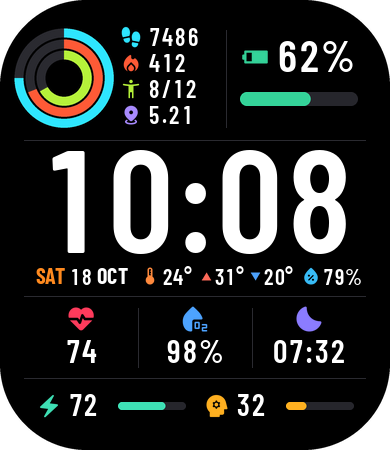
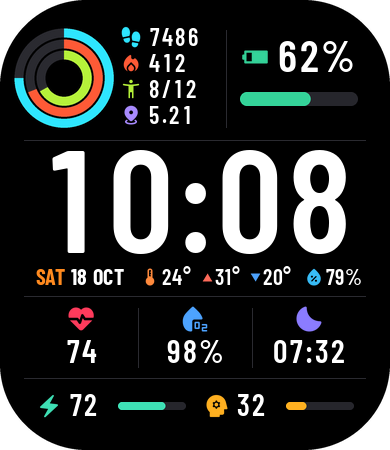
Even out the date/weather row
Proportional digits (no gap around 1), bold pre-spaced day numbers,
one shared baseline for words and digits, icons centred on the digits.

diff --git a/watchface/metrics.js b/watchface/metrics.js
@@ -3,30 +3,30 @@ export const M = {
   "time": {
     "h": 104,
     "digit_w": 70,
+    "cap": 103,
+    "avg_w": 70.0,
     "colon": 39
   },
   "stat": {
     "h": 19,
     "digit_w": 13,
+    "cap": 18,
+    "avg_w": 13.0,
     "dot": 7,
     "slash": 11
   },
   "batt": {
     "h": 32,
     "digit_w": 22,
+    "cap": 31,
+    "avg_w": 22.0,
     "pct": 35
-  },
-  "row": {
-    "h": 20,
-    "digit_w": 11,
-    "deg": 8,
-    "pct": 17,
-    "minus": 8,
-    "invalid": 14
   },
   "tile": {
     "h": 24,
     "digit_w": 16,
+    "cap": 23,
+    "avg_w": 16.0,
     "pct": 26,
     "colon": 10,
     "invalid": 20
@@ -34,28 +34,50 @@ export const M = {
   "bot": {
     "h": 23,
     "digit_w": 15,
+    "cap": 22,
+    "avg_w": 15.0,
     "invalid": 19
   },
+  "row": {
+    "h": 20,
+    "digit_w": 11,
+    "cap": 16,
+    "avg_w": 9.7,
+    "deg": 8,
+    "pct": 17,
+    "minus": 8,
+    "invalid": 14
+  },
   "week": {
-    "h": 17,
+    "h": 20,
     "w": 37
   },
   "month": {
-    "h": 17,
+    "h": 20,
     "w": 35
+  },
+  "day": {
+    "h": 20,
+    "w": 22
   },
   "aod": {
     "h": 104,
     "digit_w": 70,
+    "cap": 103,
+    "avg_w": 70.0,
     "colon": 39
   },
   "aod_date": {
     "h": 22,
-    "digit_w": 16
+    "digit_w": 16,
+    "cap": 21,
+    "avg_w": 16.0
   },
   "aod_batt": {
     "h": 19,
     "digit_w": 13,
+    "cap": 18,
+    "avg_w": 13.0,
     "pct": 20
   },
   "aod_week": {
@@ -69,19 +91,19 @@ export const M = {
   "dateRow": {
     "week": {
       "x": 28,
-      "y": 268
+      "y": 266
     },
     "day": {
-      "x": 70,
+      "x": 68,
       "y": 266
     },
     "month": {
-      "x": 97,
-      "y": 268
+      "x": 93,
+      "y": 266
     },
     "tempIcon": {
       "x": 140,
-      "y": 266
+      "y": 267
     },
     "temp": {
       "x": 162,
@@ -89,17 +111,17 @@ export const M = {
       "w": 38
     },
     "highIcon": {
-      "x": 201,
-      "y": 271
+      "x": 202,
+      "y": 272
     },
     "high": {
-      "x": 214,
+      "x": 215,
       "y": 266,
       "w": 30
     },
     "lowIcon": {
       "x": 250,
-      "y": 271
+      "y": 272
     },
     "low": {
       "x": 263,
@@ -107,11 +129,11 @@ export const M = {
       "w": 30
     },
     "humIcon": {
-      "x": 301,
-      "y": 266
+      "x": 304,
+      "y": 267
     },
     "hum": {
-      "x": 323,
+      "x": 326,
       "y": 266,
       "w": 50
     },
@@ -121,6 +143,6 @@ export const M = {
       "w": 234,
       "h": 32
     },
-    "gap": 8.3
+    "gap": 12.5
   }
 }

diff --git a/watchface/index.js b/watchface/index.js
@@ -162,15 +162,14 @@ WatchFace({
       week_sc: words('week', 7),
       show_level: NORMAL
     })
+    // Days are whole pre-spaced images (1-31) rather than two digits
     hmUI.createWidget(hmUI.widget.IMG_DATE, {
       day_startX: R.day.x,
       day_startY: R.day.y,
-      day_zero: 1,
-      day_space: 0,
-      day_align: hmUI.align.LEFT,
-      day_en_array: digits('row'),
-      day_sc_array: digits('row'),
-      day_tc_array: digits('row'),
+      day_is_character: true,
+      day_en_array: words('day', 31),
+      day_sc_array: words('day', 31),
+      day_tc_array: words('day', 31),
       show_level: NORMAL
     })
     hmUI.createWidget(hmUI.widget.IMG_DATE, {

diff --git a/tools/gen_assets.py b/tools/gen_assets.py
@@ -67,10 +67,14 @@ def tint(mask, color):
 EXTRAS = {'colon': ':', 'dot': '.', 'slash': '/', 'pct': '%', 'deg': '°', 'minus': '-', 'invalid': '--'}
 
 
-def font_set(name, size, color, extras=(), weight='SemiBold', pad_x=1):
+def font_set(name, size, color, extras=(), weight='SemiBold', pad_x=1, top=None, proportional=False):
+    """top: shared distance above the baseline (negative) so several sets line up.
+    proportional: each digit keeps its own width (no gap around "1"); slots are
+    still sized from the widest digit."""
     font = ImageFont.truetype(BARLOW[weight], size)
-    probe = '0123456789%' + ('°' if 'deg' in extras else '')
-    top = font.getbbox(probe, anchor='ls')[1]  # negative: distance above baseline
+    if top is None:
+        probe = '0123456789%' + ('°' if 'deg' in extras else '')
+        top = font.getbbox(probe, anchor='ls')[1]  # negative: distance above baseline
     h = -top + 1
     digit_w = max(math.ceil(font.getlength(c)) for c in '0123456789') + pad_x
 
@@ -81,24 +85,33 @@ def font_set(name, size, color, extras=(), weight='SemiBold', pad_x=1):
         ImageDraw.Draw(mask).text(((w - tw) / 2, h - 1), text, font=font, fill=255, anchor='ls')
         return tint(mask, color)
 
-    m = {'h': h, 'digit_w': digit_w}
+    m = {'h': h, 'digit_w': digit_w, 'cap': -font.getbbox('0', anchor='ls')[1]}
+    widths = []
     for d in '0123456789':
-        save(glyph(d, digit_w), f'font/{name}/{d}.png')
+        widths.append(save(glyph(d, None if proportional else digit_w), f'font/{name}/{d}.png').width)
+    m['avg_w'] = round(sum(widths) / 10, 1)
     for key in extras:
         m[key] = save(glyph(EXTRAS[key]), f'font/{name}/{key}.png').width
     metrics[name] = m
 
 
-def word_set(name, words, size, color, align='left'):
+def day_set(name, size, color, top):
+    """Days 1-31 as whole words (IMG_DATE day_is_character) so each number is
+    properly spaced, centred in one shared width so the month can sit at fixed x."""
+    word_set(name, [str(d) for d in range(1, 32)], size, color, align='center', top=top, weight='Bold')
+
+
+def word_set(name, words, size, color, align='left', top=None, weight='Bold'):
     """All images in a set share one width so neighbours can sit at fixed x."""
-    font = ImageFont.truetype(BARLOW['Bold'], size)
-    top = font.getbbox('ABCDEFGHIJKLMNOPQRSTUVWXYZ0123456789', anchor='ls')[1]
+    font = ImageFont.truetype(BARLOW[weight], size)
+    if top is None:
+        top = font.getbbox('ABCDEFGHIJKLMNOPQRSTUVWXYZ0123456789', anchor='ls')[1]
     h = -top + 1
     w = max(math.ceil(font.getlength(word)) for word in words) + 1
     for i, word in enumerate(words):
         mask = Image.new('L', (w, h), 0)
         tw = font.getlength(word)
-        x = w - tw if align == 'right' else 0
+        x = {'right': w - tw, 'center': (w - tw) / 2}.get(align, 0)
         ImageDraw.Draw(mask).text((x, h - 1), word, font=font, fill=255, anchor='ls')
         save(tint(mask, color), f'date/{name}_{i}.png')
     metrics[name] = {'h': h, 'w': w}
@@ -187,15 +200,18 @@ def app_icon(size=124):
 
 def date_row():
     """Lays the row out like the wireframe's flex `space-between`: four groups
-    (date, temp, high/low, humidity) with equal gaps, sized for two-digit values."""
-    r, wk, mo = metrics['row'], metrics['week'], metrics['month']
-    dw = r['digit_w']
-    ICON, TRI = 20, 11
+    (date, temp, high/low, humidity) with equal gaps, sized for typical
+    two-digit values. Every set in the row shares one height, so one y gives
+    one baseline; icons centre on the middle of the digits, not the box."""
+    r, wk, mo, day = metrics['row'], metrics['week'], metrics['month'], metrics['day']
+    dw, avg = r['digit_w'], r['avg_w']
+    ICON, TRI, GAP_IN = 20, 11, 8
+    nominal = 2 * avg + r['deg']  # e.g. "24°"
     groups = {
-        'date': wk['w'] + 5 + 2 * dw + 5 + mo['w'],
-        'temp': ICON + 2 + 2 * dw + r['deg'],
-        'hilo': 2 * (TRI + 2 + 2 * dw + r['deg']) + 6,
-        'hum': ICON + 2 + 2 * dw + r['pct'],
+        'date': wk['w'] + 3 + day['w'] + 3 + mo['w'],
+        'temp': ICON + 2 + nominal,
+        'hilo': 2 * (TRI + 2 + nominal) + GAP_IN,
+        'hum': ICON + 2 + 2 * avg + r['pct'],
     }
     gap = (ROW_X1 - ROW_X0 - sum(groups.values())) / 3
     assert gap >= 6, f'date row does not fit (gap {gap:.1f}px)'
@@ -203,25 +219,32 @@ def date_row():
     for k, w in groups.items():
         pos[k] = round(x)
         x += w + gap
-    ty = round(ROW_CY - r['h'] / 2)
-    val_w = 2 * dw + r['deg']
+    y = round(ROW_CY - r['h'] / 2)
+    cap_mid = y + r['h'] - 1 - r['cap'] / 2
+    icon_y, tri_y = round(cap_mid - ICON / 2), round(cap_mid - TRI / 2)
+    low_icon_x = round(pos['hilo'] + TRI + 2 + nominal + GAP_IN)
     lay = {
-        'week': {'x': pos['date'], 'y': round(ROW_CY - wk['h'] / 2)},
-        'day': {'x': pos['date'] + wk['w'] + 5, 'y': ty},
-        'month': {'x': pos['date'] + wk['w'] + 5 + 2 * dw + 5, 'y': round(ROW_CY - mo['h'] / 2)},
-        'tempIcon': {'x': pos['temp'], 'y': ROW_CY - ICON // 2},
-        'temp': {'x': pos['temp'] + ICON + 2, 'y': ty, 'w': r['minus'] + val_w},
-        'highIcon': {'x': pos['hilo'], 'y': ROW_CY - TRI // 2},
-        'high': {'x': pos['hilo'] + TRI + 2, 'y': ty, 'w': val_w},
-        'lowIcon': {'x': pos['hilo'] + TRI + 2 + val_w + 6, 'y': ROW_CY - TRI // 2},
-        'low': {'x': pos['hilo'] + 2 * (TRI + 2) + val_w + 6, 'y': ty, 'w': val_w},
-        'humIcon': {'x': pos['hum'], 'y': ROW_CY - ICON // 2},
-        'hum': {'x': pos['hum'] + ICON + 2, 'y': ty, 'w': 3 * dw + r['pct']},
+        'week': {'x': pos['date'], 'y': y},
+        'day': {'x': pos['date'] + wk['w'] + 3, 'y': y},
+        'month': {'x': pos['date'] + wk['w'] + 3 + day['w'] + 3, 'y': y},
+        'tempIcon': {'x': pos['temp'], 'y': icon_y},
+        'temp': {'x': pos['temp'] + ICON + 2, 'y': y, 'w': r['minus'] + 2 * dw + r['deg']},
+        'highIcon': {'x': pos['hilo'], 'y': tri_y},
+        'high': {'x': pos['hilo'] + TRI + 2, 'y': y, 'w': 2 * dw + r['deg']},
+        'lowIcon': {'x': low_icon_x, 'y': tri_y},
+        'low': {'x': low_icon_x + TRI + 2, 'y': y, 'w': 2 * dw + r['deg']},
+        'humIcon': {'x': pos['hum'], 'y': icon_y},
+        'hum': {'x': pos['hum'] + ICON + 2, 'y': y, 'w': 3 * dw + r['pct']},
         'weatherTap': {'x': pos['temp'] - 6, 'y': 260, 'w': ROW_X1 + 6 - (pos['temp'] - 6), 'h': 32},
         'gap': round(gap, 1),
     }
     metrics['dateRow'] = lay
     return lay
+
+
+def shared_top(size, probe='ABCDEFGHIJKLMNOPQRSTUVWXYZ0123456789%°'):
+    """Highest point above the baseline across the Bold and SemiBold cuts."""
+    return min(ImageFont.truetype(BARLOW[w], size).getbbox(probe, anchor='ls')[1] for w in ('Bold', 'SemiBold'))
 
 
 def write_metrics_js():
@@ -238,11 +261,14 @@ def main():
     font_set('time', 146, WHITE, ('colon',), pad_x=2)
     font_set('stat', 24, WHITE, ('dot', 'slash'))
     font_set('batt', 44, WHITE, ('pct',))
-    font_set('row', 22, WHITE, ('deg', 'pct', 'minus', 'invalid'), pad_x=0)
     font_set('tile', 32, WHITE, ('pct', 'colon', 'invalid'))
     font_set('bot', 30, WHITE, ('invalid',))
-    word_set('week', WEEK, 22, ORANGE, align='right')
-    word_set('month', MONTHS, 22, WHITE)
+    # Date/weather row: one size, one shared baseline
+    row_top = shared_top(22)
+    font_set('row', 22, WHITE, ('deg', 'pct', 'minus', 'invalid'), pad_x=0, top=row_top, proportional=True)
+    word_set('week', WEEK, 22, ORANGE, align='right', top=row_top)
+    word_set('month', MONTHS, 22, WHITE, top=row_top)
+    day_set('day', 22, WHITE, top=row_top)
 
     # Always-on mode (dim grey)
     font_set('aod', 146, AOD_GRAY, ('colon',), pad_x=2)

diff --git a/tools/preview/render.py b/tools/preview/render.py
@@ -84,7 +84,10 @@ def draw_time(canvas, w):
 
 def draw_date(canvas, w):
     if 'day_startX' in w:
-        draw_digits(canvas, w['day_startX'], w['day_startY'], DAY, w['day_en_array'], w.get('day_space', 0))
+        if w.get('day_is_character'):
+            canvas.alpha_composite(load(w['day_en_array'][int(DAY) - 1]), (w['day_startX'], w['day_startY']))
+        else:
+            draw_digits(canvas, w['day_startX'], w['day_startY'], DAY, w['day_en_array'], w.get('day_space', 0))
     if 'month_startX' in w:
         canvas.alpha_composite(load(w['month_en_array'][MONTH]), (w['month_startX'], w['month_startY']))
 
